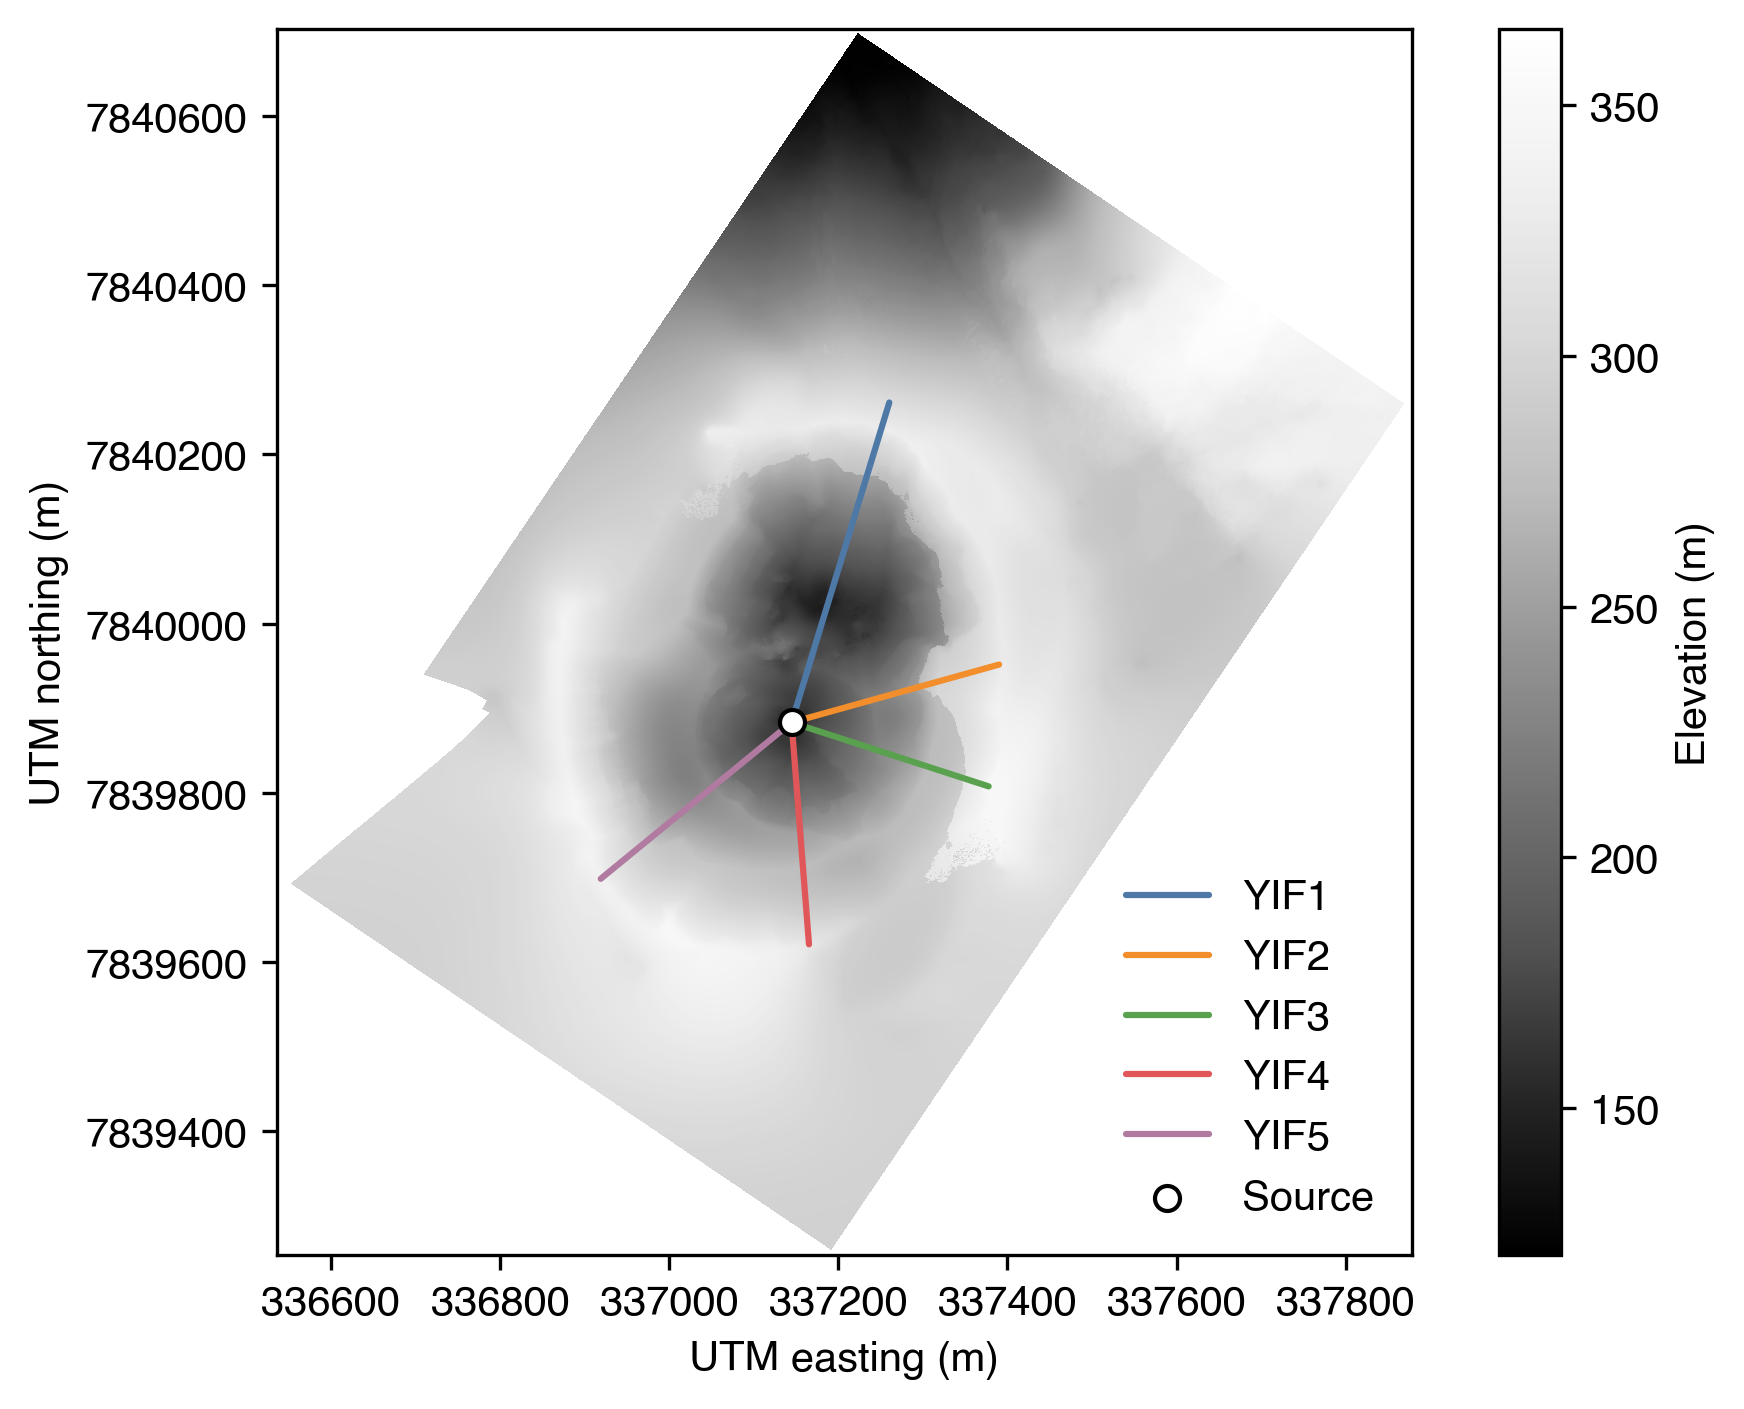
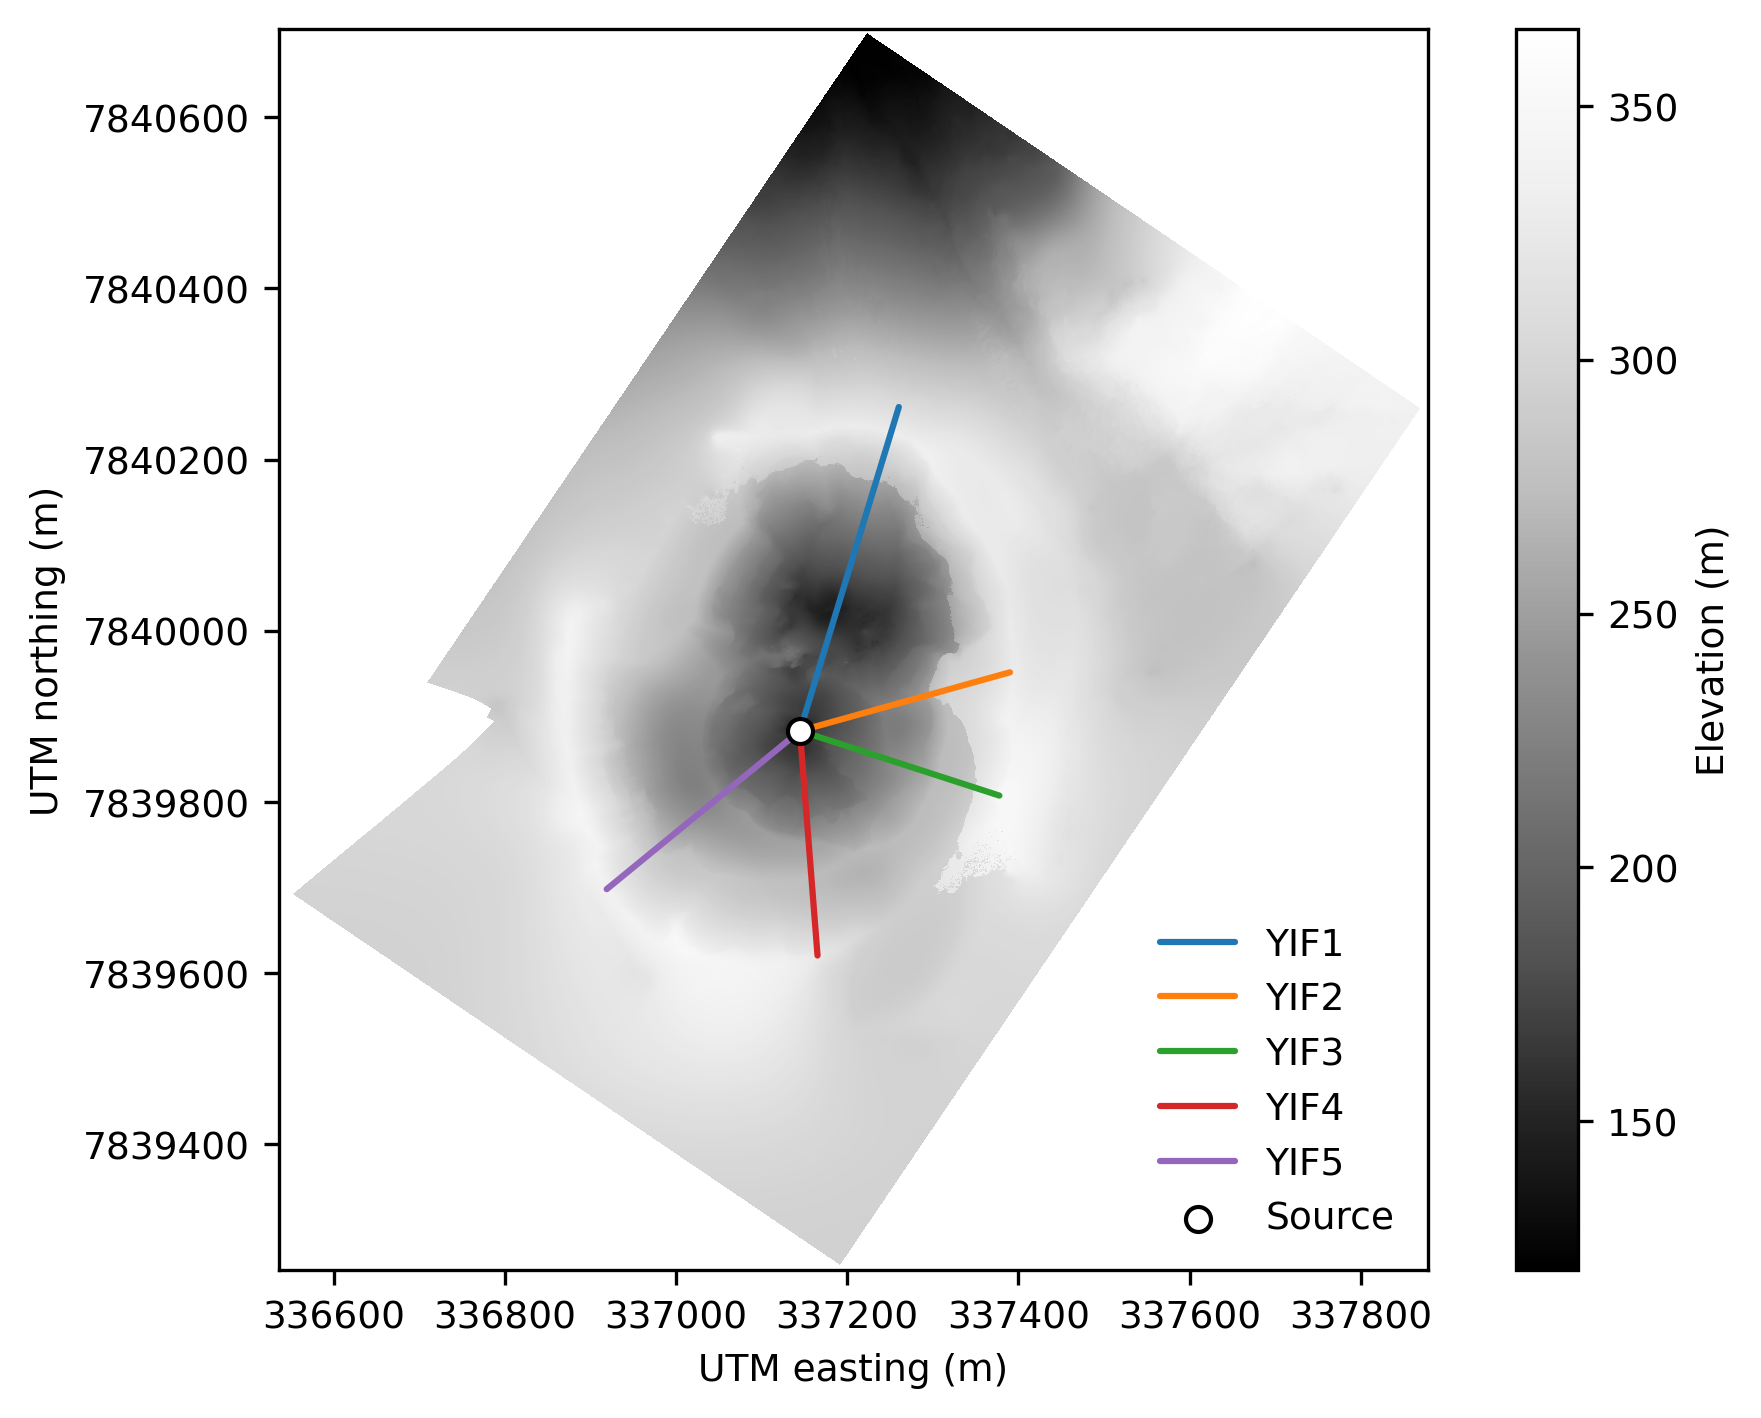
Make plotting uniform across systems

diff --git a/example_yasur.py b/example_yasur.py
@@ -44,6 +44,10 @@ except ModuleNotFoundError:
     import matplotlib.pyplot as plt
 # fmt: on
 
+# Reset everything to defaults; use smaller font size
+plt.rcParams.update(plt.rcParamsDefault)
+plt.rc('font', size=9)
+
 # Plot DEM with source-receiver paths
 fig, ax = plt.subplots()
 dem.plot.imshow(ax=ax, cmap='Greys_r', cbar_kwargs=dict(label='Elevation (m)'))
@@ -67,7 +71,7 @@ for ax, var_name in zip(axes, ds.data_vars):
     ax.scatter(
         ds.distance[0], ds.elevation[0], c='white', ec='black', zorder=2, label='Source'
     )
-    ax.set_title(var_name, fontsize=9, fontname=['Courier', 'monospace'])
+    ax.set_title(var_name, fontsize='medium', fontname='monospace')
     ax.set_aspect('equal')
 axes[-1].set_xlabel('Horizontal distance (m)')
 axes[1].set_ylabel('Elevation (m)')
